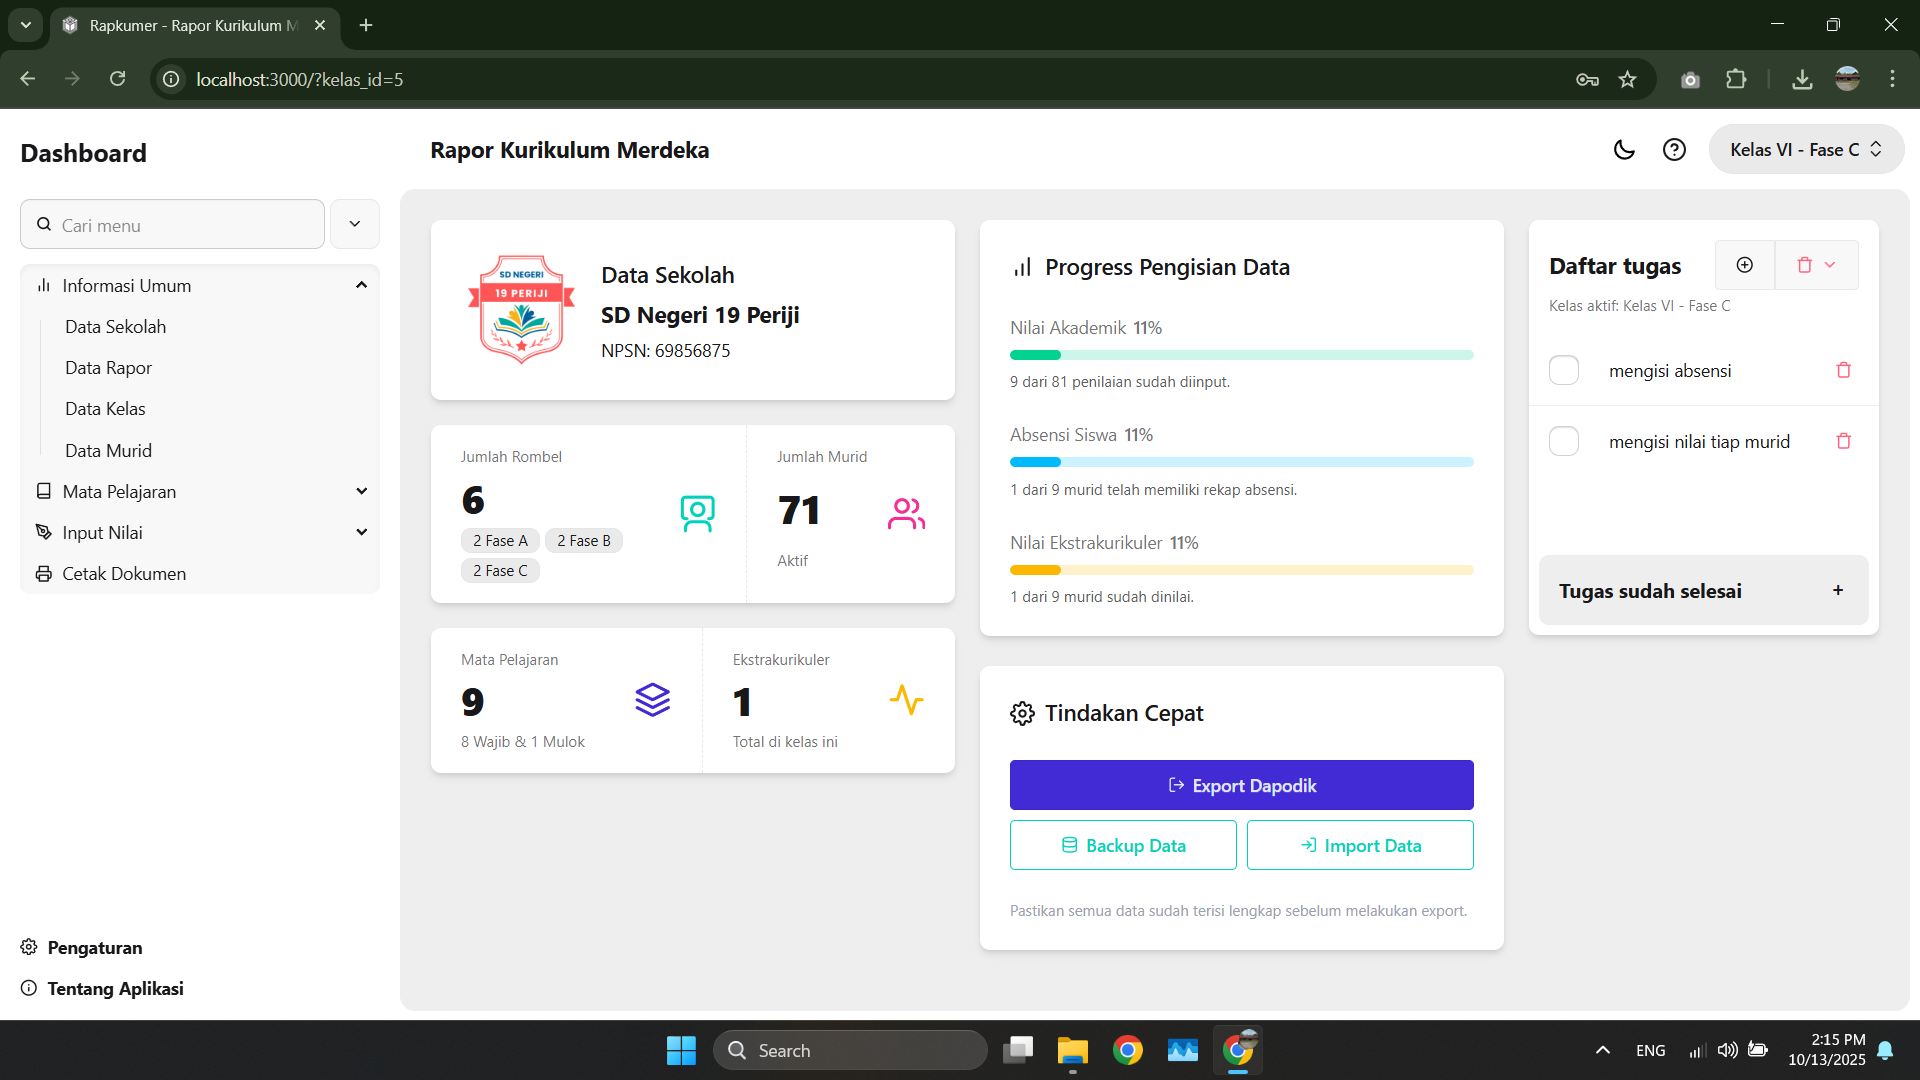
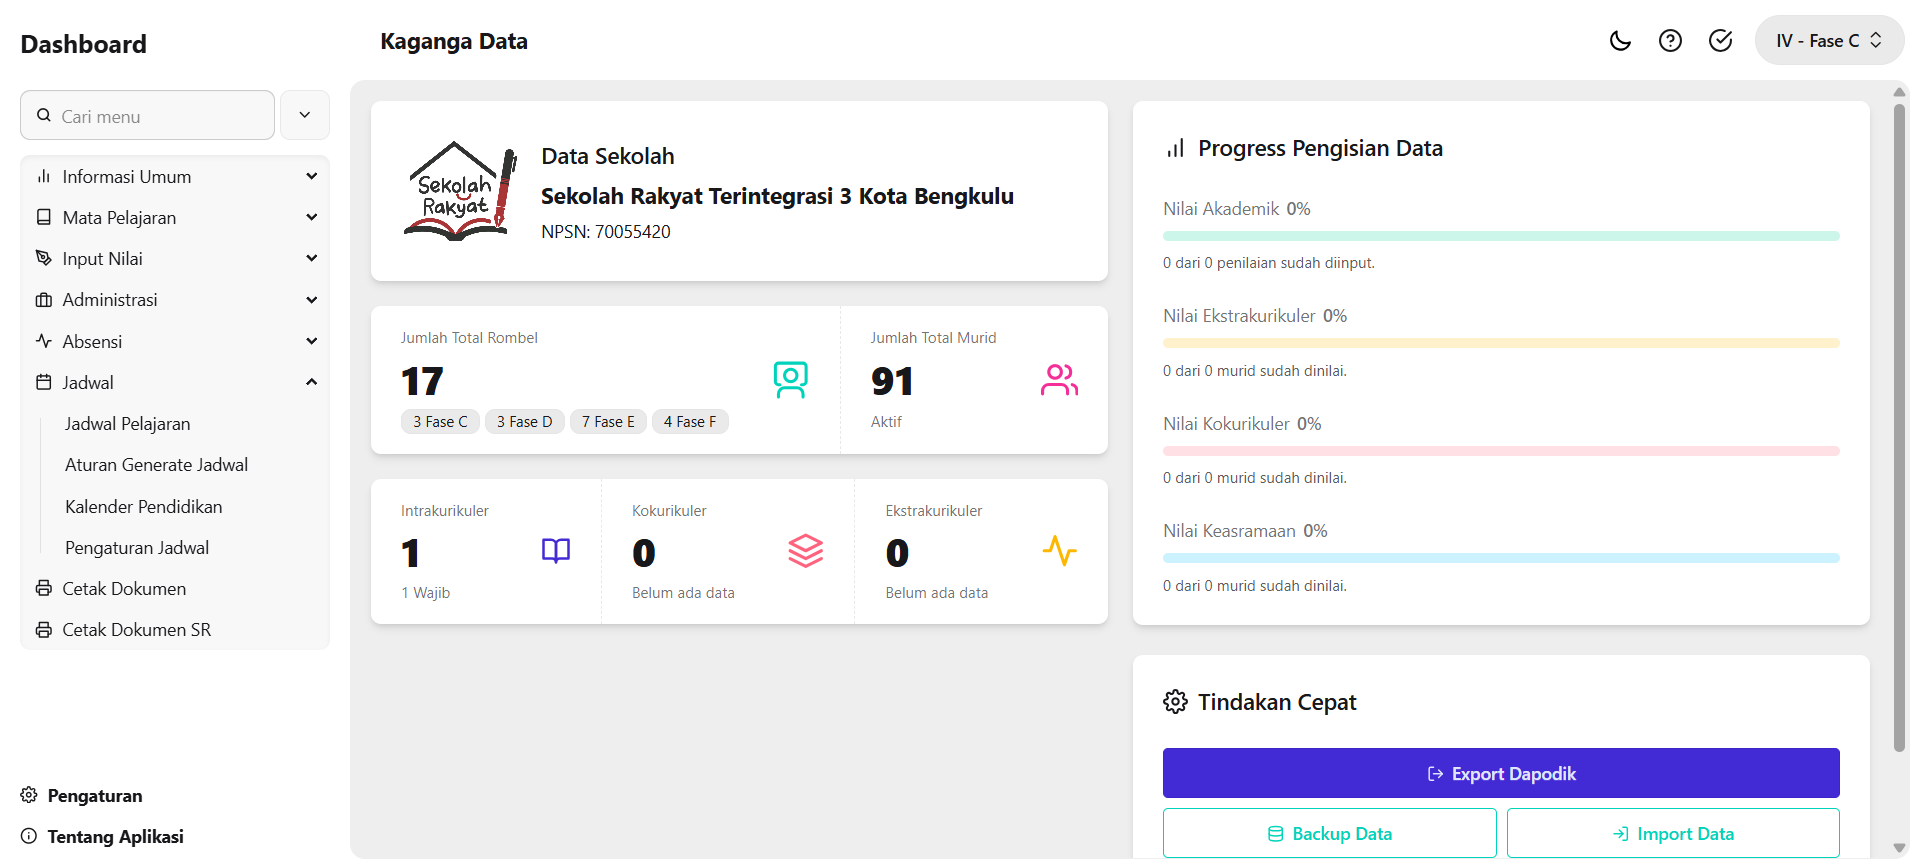
Update README branding for Kaganga Data

diff --git a/README.md b/README.md
@@ -1,40 +1,40 @@
-# Kaganga
+# Kaganga Data
 
 ![screenshot](static/image.png)
 
 <a href='https://nodejs.org/en' target="_blank"><img alt='node.js' src='https://img.shields.io/badge/Node.JS-100000?style=for-the-badge&logo=node.js&logoColor=35C354&labelColor=000000&color=35C354'/></a> <a href='https://svelte.dev/' target="_blank"><img alt='Svelte' src='https://img.shields.io/badge/Svelte-100000?style=for-the-badge&logo=Svelte&logoColor=F45A20&labelColor=000000&color=F45A20'/></a> <a href='https://orm.drizzle.team/' target="_blank"><img alt='Drizzle' src='https://img.shields.io/badge/Drizzle_ORM-100000?style=for-the-badge&logo=Drizzle&logoColor=FAF61D&labelColor=000000&color=FAF61D'/></a> <a href='https://sqlite.org/' target="_blank"><img alt='Sqlite' src='https://img.shields.io/badge/SQLite3-100000?style=for-the-badge&logo=Sqlite&logoColor=5EA765&labelColor=000000&color=5EA765'/></a> <a href='https://tailwindcss.com/' target="_blank"><img alt='tailwindcss' src='https://img.shields.io/badge/Tailwind_CSS-100000?style=for-the-badge&logo=tailwindcss&logoColor=36DBFF&labelColor=000000&color=36DBFF'/></a> <a href='https://daisyui.com/' target="_blank"><img alt='DaisyUI' src='https://img.shields.io/badge/Daisy_UI-100000?style=for-the-badge&logo=DaisyUI&logoColor=FFEC25&labelColor=000000&color=FFEC25'/></a>
 
-Kaganga adalah aplikasi administrasi dan informasi data sekolah untuk rapor, absensi, jadwal, kalender pendidikan, dan kebutuhan sekolah terpadu.
+Kaganga Data adalah aplikasi administrasi dan informasi data sekolah untuk rapor, absensi, jadwal, kalender pendidikan, data pegawai, data murid, dan kebutuhan sekolah terpadu.
 
-Dokumentasi lengkap proyek disusun dalam bahasa Indonesia. File ini memberi ringkasan cepat untuk pengguna
-dan pengembang; bagian teknis dan pedoman kontribusi ada di folder `docs/`.
+Dokumentasi lengkap proyek disusun dalam bahasa Indonesia. File ini memberi ringkasan cepat untuk pengguna dan pengembang; bagian teknis dan pedoman kontribusi ada di folder `docs/`.
 
 ## Fitur Utama
 
 - Mengelola data sekolah, kelas, pegawai, murid, dan mata pelajaran
-- Input nilai formatif dan sumatif sesuai asesmen yang tersedia
-- Menyimpan catatan wali kelas dan informasi kehadiran
-- Mencetak rapor, piagam, dan dokumen pendukung yang siap cetak
+- Input nilai formatif, sumatif, kokurikuler, ekstrakurikuler, dan keasramaan
+- Mengelola absensi, jadwal pelajaran, kalender pendidikan, dan data kesehatan murid
+- Mencetak rapor, dokumen SR, kartu absensi, jadwal, kalender pendidikan, dan dokumen pendukung siap cetak
 
 ## Siapa yang Cocok Menggunakan
 
-- Mereka yang bosan akan sistem lama yang penuh bug, lelet birokasi dan berani mencoba hal baru.
+- Sekolah yang membutuhkan aplikasi lokal untuk mengelola data rapor, administrasi, absensi, jadwal, dan dokumen sekolah rakyat secara lebih rapi.
+- Tim sekolah yang ingin tetap bisa bekerja di jaringan lokal tanpa bergantung penuh pada layanan online.
 
-## Quickstart — Versi Pengguna (Windows installer)
+## Quickstart — Versi Pengguna (Windows Installer)
 
-1. Kunjungi halaman rilis: https://github.com/sira313/raporkumer/releases
+1. Kunjungi halaman rilis: https://github.com/Argilang14/Kaganga-Data/releases
 2. Unduh `KagangaSetup.exe` dan jalankan installer.
 3. Setelah terpasang, buka aplikasi dari shortcut yang tersedia.
 
-Untuk instruksi instalasi manual dan pengembangan, baca [docs/DEVELOPMENT.md](https://github.com/sira313/raporkumer/blob/main/docs/DEVELOPMENT.md).
+Untuk instalasi manual Kaganga dan pengembangan Kaganga, baca [docs/DEVELOPMENT.md](https://github.com/Argilang14/Kaganga-Data/blob/main/docs/DEVELOPMENT.md).
 
 ## Menjalankan Versi Pengembangan (untuk pengembang)
 
 Persyaratan:
 
-- Node.js 20 LTS (direkomendasikan)
+- Node.js 20 LTS atau versi yang sesuai dengan runtime proyek
 - pnpm
-- Google Chrome atau Chromium (untuk rendering PDF via PagedJS + Puppeteer)
+- Google Chrome atau Chromium untuk rendering PDF via PagedJS + Puppeteer
 
 Langkah singkat:
 
@@ -47,9 +47,9 @@ Buka http://localhost:1206 di browser. Jika port 1206 sudah digunakan, jalankan 
 
 Beberapa skrip penting (lihat `package.json`):
 
-- `pnpm dev` — jalankan server pengembangan (script `node scripts/dev.js` yang juga menjalankan generator ikon)
+- `pnpm dev` — jalankan server pengembangan melalui `node scripts/dev.js`
 - `pnpm build` — buat build produksi
-- `pnpm db:push` — jalankan migrasi database (Drizzle)
+- `pnpm db:push` — jalankan migrasi database Drizzle
 - `pnpm db:studio` — buka Drizzle Studio untuk inspeksi database
 - `pnpm lint` dan `pnpm check` — cek format, lint, dan tipe Svelte
 
@@ -57,36 +57,37 @@ Lokasi database lokal: `data/database.sqlite3`.
 
 ## Struktur Proyek (singkat)
 
-- `src/` — kode sumber SvelteKit (komponen, rute, server)
+- `src/` — kode sumber SvelteKit: komponen, route, API, dan server helper
 - `static/` — aset statis yang disajikan apa adanya
-- `scripts/` — skrip utilitas (migrasi, seed, generator ikon)
-- `data/` — file database lokal dan upload
+- `scripts/` — skrip utilitas untuk migrasi, build, seed, dan packaging
+- `data/` — lokasi database lokal dan upload, tidak untuk data produksi di Git
 - `drizzle/` — file migrasi SQL yang digunakan oleh Drizzle
+- `docs/` — dokumentasi pengembangan, update, dan catatan teknis
 
-Lebih detil tentang pola implementasi (Svelte 5 runes, DaisyUI, Tailwind v4, Drizzle ORM) ada di
-[docs/DEVELOPMENT.md](https://github.com/sira313/raporkumer/blob/main/docs/DEVELOPMENT.md).
+Lebih detil tentang pola implementasi Svelte 5, DaisyUI, TailwindCSS 4, dan Drizzle ORM ada di [docs/DEVELOPMENT.md](https://github.com/Argilang14/Kaganga-Data/blob/main/docs/DEVELOPMENT.md).
+
+## Update Aplikasi
+
+Alur update Kaganga memakai metadata publik `latest.json`. Source utama tetap berada di repo private, sedangkan info versi terbaru bisa dibaca aplikasi dari repo update publik.
+
+Dokumen alur update tersedia di [docs/update/README.md](docs/update/README.md).
 
 ## Lisensi & Pengecualian
 
-Perangkat lunak ini menggunakan lisensi khas (custom license). Anda bebas menggunakan, memodifikasi,
-dan membagikannya untuk keperluan nonkomersial selama mencantumkan atribusi. Dilarang menjual atau
-memonetisasi perangkat lunak ini maupun hasil modifikasinya. Lihat file `LICENSE` di root untuk
-ketentuan lengkap dan daftar aset yang dicakup.
+Perangkat lunak ini menggunakan lisensi khas (custom license). Anda bebas menggunakan, memodifikasi, dan membagikannya untuk keperluan nonkomersial selama mencantumkan atribusi. Dilarang menjual atau memonetisasi perangkat lunak ini maupun hasil modifikasinya. Lihat file `LICENSE` di root untuk ketentuan lengkap dan daftar aset yang dicakup.
 
-Ikon pada `src/lib/icons` berasal dari [Feather](https://github.com/feathericons/feather) dan dirilis di bawah
-lisensi MIT — rincian dan kredit ada di [docs/ICON-CREDITS.md](https://github.com/sira313/raporkumer/blob/main/docs/ICON-CREDITS.md).
+Ikon pada `src/lib/icons` berasal dari [Feather](https://github.com/feathericons/feather) dan dirilis di bawah lisensi MIT — rincian dan kredit ada di [docs/ICON-CREDITS.md](https://github.com/Argilang14/Kaganga-Data/blob/main/docs/ICON-CREDITS.md).
 
 ## Kontribusi
 
-Terima kasih jika Anda ingin berkontribusi!
+Terima kasih jika Anda ingin berkontribusi.
 
-- Ikuti panduan kode dan gunakan `pnpm lint` + `pnpm check` sebelum mengirim PR.
-- Gunakan bahasa Indonesia untuk user-facing copy (teks antarmuka dan dokumentasi pengguna).
-- Tambahkan tes kecil atau deskripsi manual langkah verifikasi bila mengubah fungsionalitas kritis.
+- Ikuti panduan kode dan gunakan `pnpm lint` + `pnpm check` sebelum mengirim perubahan.
+- Gunakan bahasa Indonesia untuk user-facing copy, teks antarmuka, dan dokumentasi pengguna.
+- Tambahkan tes kecil atau deskripsi manual langkah verifikasi bila mengubah fungsionalitas penting.
 
-Lihat [docs/DEVELOPMENT.md](https://github.com/sira313/raporkumer/blob/main/docs/DEVELOPMENT.md) untuk alur kerja development yang disarankan dan skrip helper.
+Lihat [docs/DEVELOPMENT.md](https://github.com/Argilang14/Kaganga-Data/blob/main/docs/DEVELOPMENT.md) untuk alur kerja development yang disarankan dan skrip helper.
 
 ## Bantuan
 
-Jika menemukan masalah, buka issue di GitHub repo atau hubungi pemilik/kontributor yang tercantum di halaman
-release atau dalam file [docs/](https://github.com/sira313/raporkumer/blob/main/docs/).
+Jika menemukan masalah, buka issue di GitHub repo atau hubungi pemilik/kontributor yang tercantum di halaman release atau dalam file [docs/](https://github.com/Argilang14/Kaganga-Data/blob/main/docs/).
